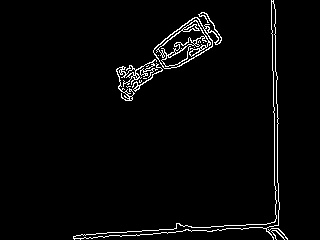
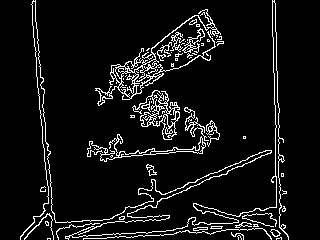
add threshold

diff --git a/open_cv/img/ex_roi_get_line.py b/open_cv/img/ex_roi_get_line.py
@@ -10,6 +10,7 @@ path = "/home/mm/code_dept/python/resource/img/"
 
 
 class OriginImgPanel(wx.Panel):
+
     def __init__(self, parent, img_path):
         self.background = wx.Image(img_path, wx.BITMAP_TYPE_ANY).ConvertToBitmap()
         wx.Panel.__init__(self, parent=parent, size=(
@@ -35,21 +36,34 @@ class OriginImgPanel(wx.Panel):
 
 
 class EdgePanel(wx.Panel):
+
     def __init__(self, parent, img_path):
         wx.Panel.__init__(self, parent)
+        hbox = wx.BoxSizer(wx.HORIZONTAL)
+
         self.origin_img = cv2.imread(img_path)
         height, width = self.origin_img.shape[:2]
-        self.SetSize((height, width))
+        self.SetSize((height * 3, width * 3))
         self.rbg_img = cv2.cvtColor(self.origin_img, cv2.COLOR_BGR2RGB)
         self.bmp = wx.BitmapFromBuffer(width, height, self.rbg_img)
 
-        self.edge_img = wx.StaticBitmap(self, size=(height, width))
-        print "origin", width, height
+        self.edge_img = wx.StaticBitmap(self, size=(width, height))
+
         self.edge_img.SetBitmap(self.bmp)
+
+        hbox.Add(self.edge_img, 1)
+        hbox.Add((-1, -1), 1)
+        self.binary_img = wx.StaticBitmap(self, size=(width, height))
+
+        self.binary_img.SetBitmap(self.bmp)
+        hbox.Add(self.binary_img)
         self.sp = 5
         self.sr = 5
+        self.threshold = 20
         self.w = width
         self.h = height
+        self.cv_bmp = None
+        self.SetSizer(hbox)
 
     def adjust_sp(self, sp):
         self.sp = sp
@@ -59,40 +73,63 @@ class EdgePanel(wx.Panel):
         self.sr = sr
         self.fliter_img()
 
+    def adjust_threshold(self, th):
+        self.threshold = th
+        self.threshold_img()
+
     def fliter_img(self):
         image = cv2.pyrMeanShiftFiltering(self.origin_img, self.sp, self.sr)
         gray_img = cv2.cvtColor(image, cv2.COLOR_BGR2GRAY)
         kernel_size = 3
         detected_edges = cv2.Canny(gray_img, 20, 150, apertureSize=kernel_size)
-        dst = cv2.bitwise_and(self.origin_img, self.origin_img, mask=detected_edges)
-        self.rbg_img = cv2.cvtColor(dst, cv2.COLOR_BGR2RGB)
+        self.cv_bmp = cv2.bitwise_and(self.origin_img, self.origin_img, mask=detected_edges)
+        self.rbg_img = cv2.cvtColor(self.cv_bmp, cv2.COLOR_BGR2RGB)
         self.bmp = wx.BitmapFromBuffer(self.w, self.h, self.rbg_img)
         self.edge_img.SetBitmap(self.bmp)
 
+    def threshold_img(self):
+        if self.cv_bmp is not None:
+            gray_img = cv2.cvtColor(self.cv_bmp, cv2.COLOR_BGR2GRAY)
+            ret, mask = cv2.threshold(gray_img, self.threshold, 255, cv2.THRESH_BINARY)
+            # mask_inv = cv2.bitwise_not(mask)
+            img = cv2.bitwise_and(self.cv_bmp, self.cv_bmp, mask=mask)
+            bmp = wx.BitmapFromBuffer(self.w, self.h, img)
+            self.binary_img.SetBitmap(bmp)
+
 
 class CtrlPanel(wx.Panel):
+
     def __init__(self, parent):
-        wx.Panel.__init__(self, parent, size=(400, 150))
+        wx.Panel.__init__(self, parent, size=(420, 150))
         self.parent = parent
-        vbox = wx.BoxSizer(wx.VERTICAL)
+        # vbox = wx.BoxSizer(wx.VERTICAL)
+        sizer = wx.GridBagSizer(hgap=10, vgap=0)
 
-        self.sp_sld = wx.Slider(self, value=5, minValue=1, maxValue=100,
-                                size=(400, 50), style=wx.SL_HORIZONTAL | wx.SL_LABELS)
+        self.sp_sld = wx.Slider(self, value=5, minValue=1, maxValue=40,
+                                size=(200, 50), style=wx.SL_HORIZONTAL | wx.SL_LABELS)
 
-        vbox.Add(self.sp_sld, 1, flag=wx.EXPAND | wx.ALIGN_CENTER_HORIZONTAL | wx.TOP)
+        # vbox.Add(self.sp_sld)
+        sizer.Add(self.sp_sld, (0, 0))
         self.sp_sld.Bind(wx.EVT_SLIDER, self.slider_sp)
-        self.sr_sld = wx.Slider(self, value=5, minValue=1, maxValue=100,
-                                size=(400, 50), style=wx.SL_HORIZONTAL | wx.SL_LABELS)
+        self.sr_sld = wx.Slider(self, value=5, minValue=1, maxValue=40,
+                                size=(200, 50), style=wx.SL_HORIZONTAL | wx.SL_LABELS)
 
-        vbox.Add(self.sr_sld, 1, flag=wx.EXPAND | wx.ALIGN_CENTER_HORIZONTAL | wx.TOP)
-
+        # vbox.Add(self.sr_sld)
+        sizer.Add(self.sr_sld, (0, 1))
         self.sr_sld.Bind(wx.EVT_SLIDER, self.slider_sr)
-        self.SetSizer(vbox)
+
+        self.thre_sld = wx.Slider(self, value=5, minValue=1, maxValue=40,
+                                  size=(200, 50), style=wx.SL_HORIZONTAL | wx.SL_LABELS)
+
+        sizer.Add(self.thre_sld, (1, 1))
+        self.thre_sld.Bind(wx.EVT_SLIDER, self.slider_threshold)
+
+        self.SetSizer(sizer)
 
     def slider_sp(self, e):
         obj = e.GetEventObject()
         val = obj.GetValue()
-        print val
+        print "sp", val
         self.parent.edge_pnl.adjust_sp(val)
 
     def slider_sr(self, e):
@@ -100,6 +137,17 @@ class CtrlPanel(wx.Panel):
         val = obj.GetValue()
         print val
         self.parent.edge_pnl.adjust_sr(val)
+
+    def slider_canny(self, e):
+        obj = e.GetEventObject()
+        val = obj.GetValue()
+        print val
+
+    def slider_threshold(self, e):
+        obj = e.GetEventObject()
+        val = obj.GetValue()
+        print val
+        self.parent.edge_pnl.adjust_threshold(val)
 
 
 class Mywin(wx.Frame):
@@ -119,7 +167,7 @@ class Mywin(wx.Frame):
         v_lay.Add(self.img_pnl)
         v_lay.Add(self.edge_pnl)
         self.SetSizer(v_lay)
-        self.SetSize((500, 800))
+        self.SetSize((1000, 900))
         self.Centre()
         self.Show(True)
 
